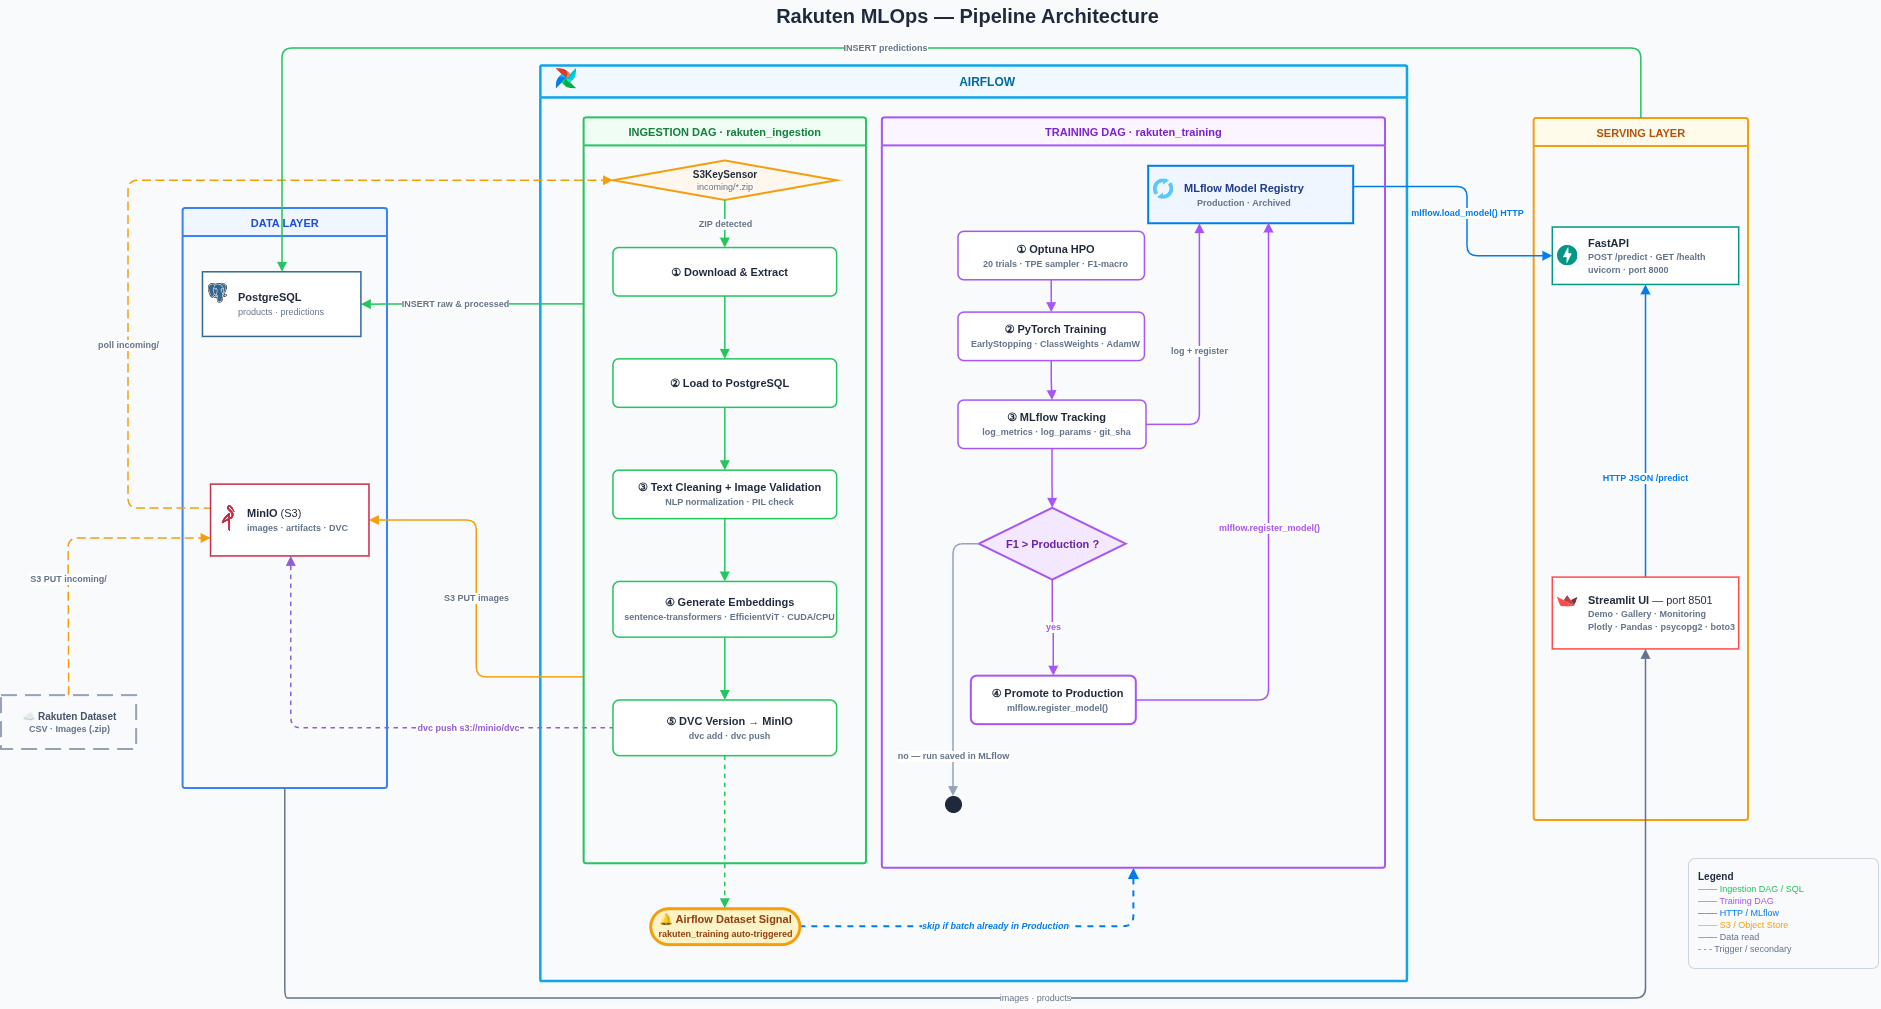
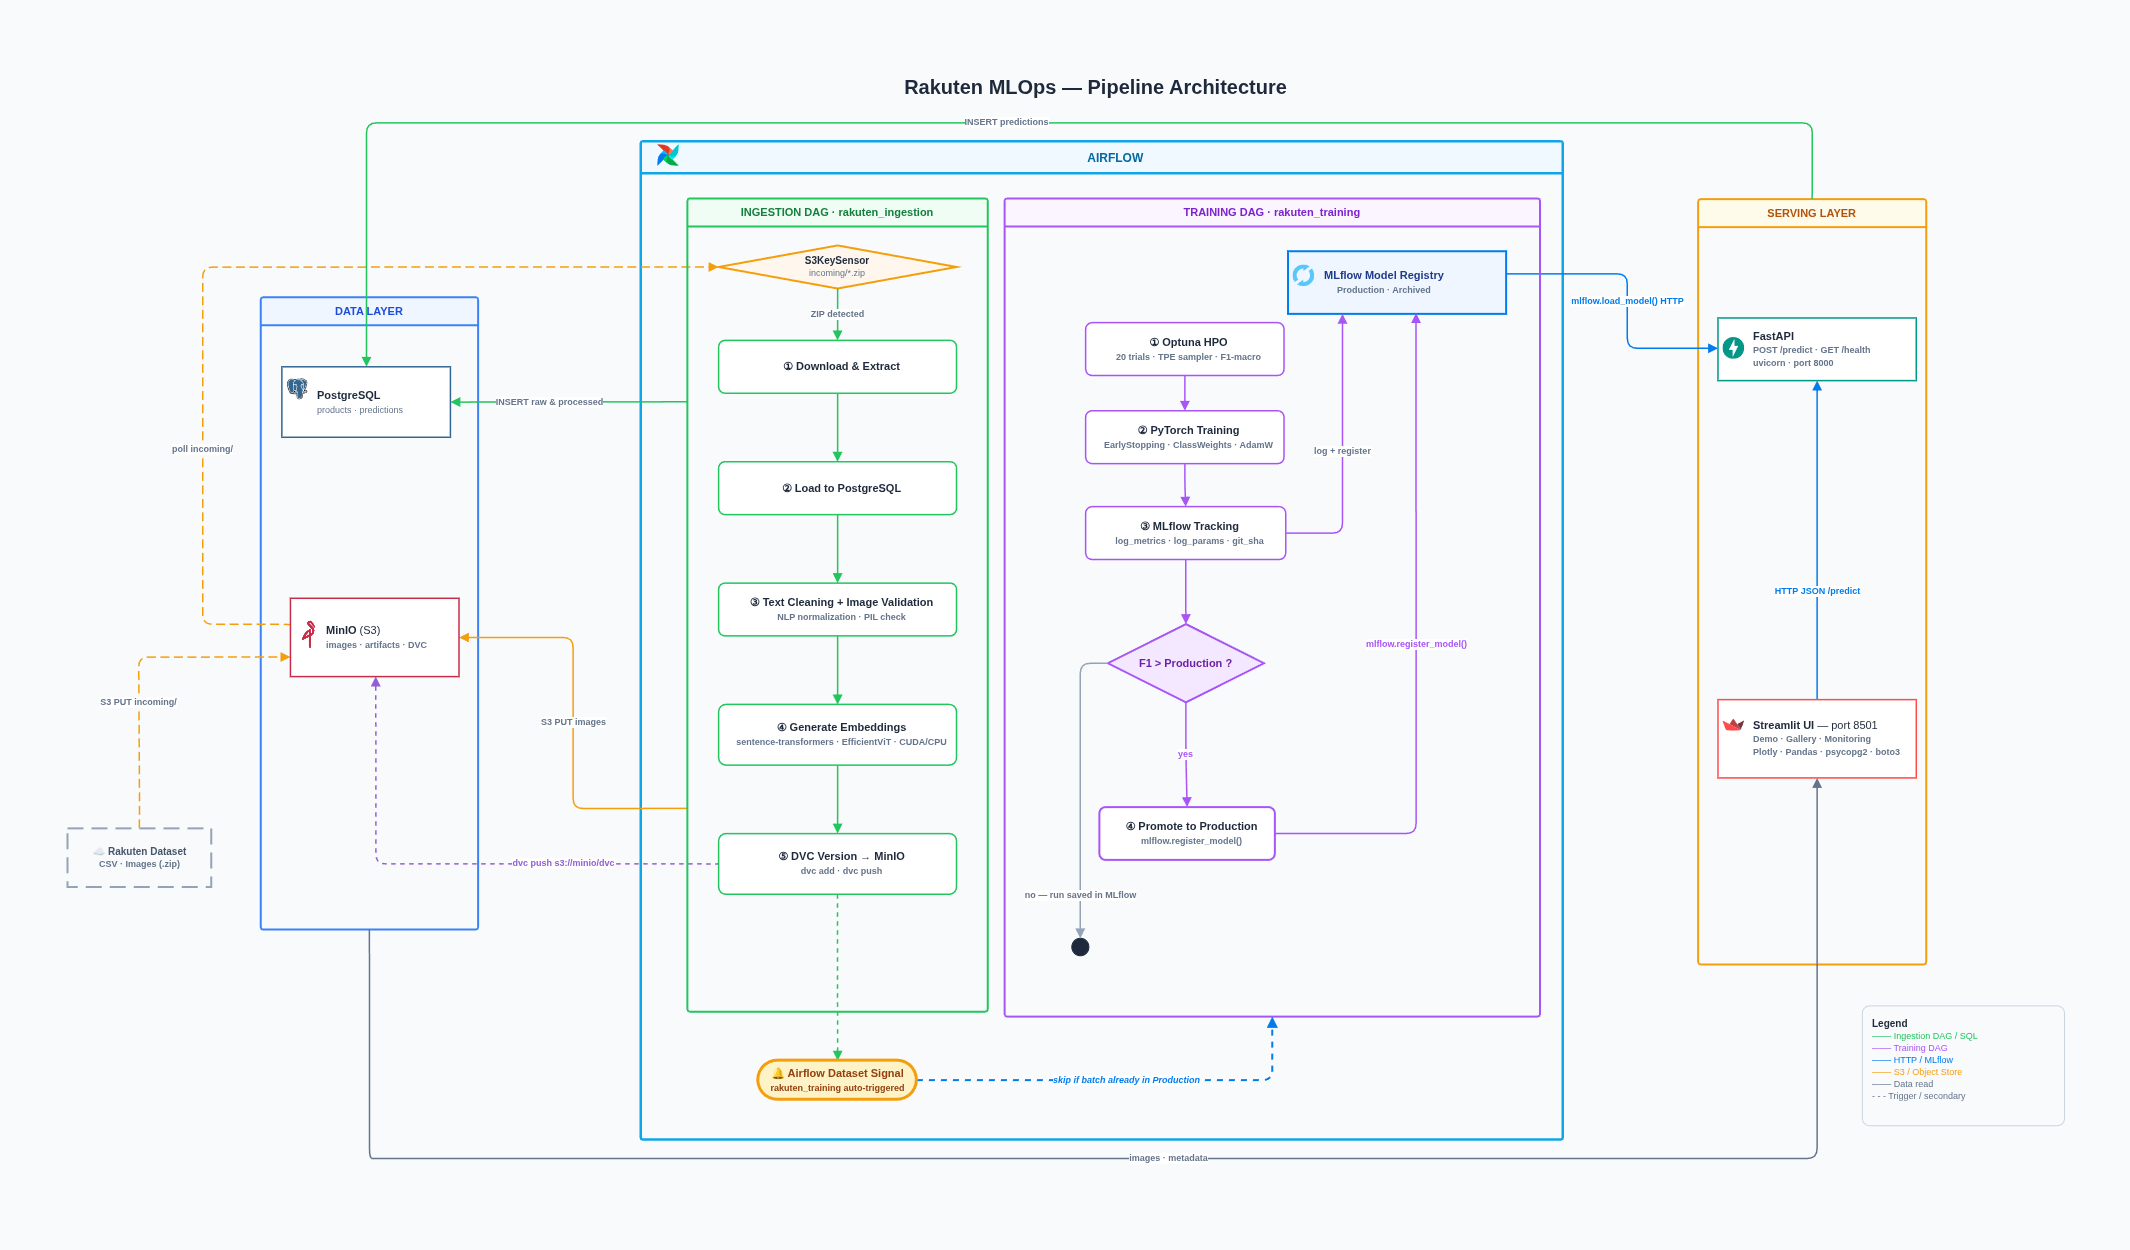
docs: README overhaul — screenshots, badge refactor, content cleanup

diff --git a/README.md b/README.md
@@ -1,16 +1,16 @@
 # MultiModalAI MLOps
 
+![Python](https://img.shields.io/badge/python-3.12-blue?logo=python&logoColor=white) ![PyTorch](https://img.shields.io/badge/PyTorch-2.x-ee4c2c?logo=pytorch&logoColor=white) ![Airflow](https://img.shields.io/badge/Airflow-2.x-017cee?logo=apacheairflow&logoColor=white) ![MLflow](https://img.shields.io/badge/MLflow-3.6-0194e2?logo=mlflow&logoColor=white) ![DVC](https://img.shields.io/badge/DVC-945dd6?logo=dvc&logoColor=white) ![Docker](https://img.shields.io/badge/Docker-2496ed?logo=docker&logoColor=white) ![HuggingFace](https://img.shields.io/badge/HuggingFace-FF9D0B?logo=huggingface&logoColor=white) ![PostgreSQL](https://img.shields.io/badge/PostgreSQL-336791?logo=postgresql&logoColor=white) ![Optuna](https://img.shields.io/badge/Optuna-171157?logo=optuna&logoColor=white) ![License](https://img.shields.io/badge/license-MIT-green)
+
 End-to-end MLOps pipeline for multimodal e-commerce product classification (text + image) — ingestion, training, inference and monitoring.
 
-> **27 classes · 84 916 products · F1-macro 0.8325 · imbalance ratio 13.4×**
+> **27 classes · 50 950 products · F1-macro 0.8188 · imbalance ratio 13.4×**
 
 ---
 
 ## Overview
 
 This project implements a production-grade MLOps pipeline for classifying Rakuten e-commerce products using both text (designation + description) and image data. The full pipeline — from raw data ingestion to model serving — runs on a single machine via Docker Compose. Hyperparameter optimization is handled by Optuna (20 trials, TPE sampler) with automatic model promotion based on F1-macro.
-
-See the [Pipeline Architecture](#pipeline-architecture) diagram below for a full overview.
 
 ---
 
@@ -20,7 +20,6 @@ See the [Pipeline Architecture](#pipeline-architecture) diagram below for a full
 
 ![Pipeline Architecture](docs/architecture_pipeline.png)
 
-> Source: [`docs/rakuten_mlops_v5.drawio`](docs/rakuten_mlops_v5.drawio)
 
 ### Model
 
@@ -65,7 +64,6 @@ All services communicate over a shared Docker bridge network (`rakuten_net`).
 
 ![Docker architecture](docs/docker_architecture.png)
 
-> Source: [`docs/docker_architecture.drawio`](docs/docker_architecture.drawio)
 
 ---
 
@@ -73,52 +71,15 @@ All services communicate over a shared Docker bridge network (`rakuten_net`).
 
 ### Ingestion DAG (`rakuten_ingestion`)
 
-```mermaid
-flowchart LR
-    WZ([wait_zip\nS3KeySensor · 24h]) --> A([detect_zip\nMinIO incoming/])
-    A --> B([download_extract\nCSV + images])
-    B --> C([archive_zip\n+ cleanup_task])
-    C --> D{batch already\nprocessed?}
-    D -->|yes| SK([skip])
-    D -->|no| E([load_postgres\nproducts_raw])
-    E --> F([transform\ntext clean · img validation])
-    E --> G([upload_images\nMinIO · idempotent])
-    F --> H([quality_checks\nvolume · match rate · coverage])
-    G --> H
-    H --> I([save_processed\nCSV + PostgreSQL])
-    I --> J{new products\nto embed?}
-    J -->|no| SK2([skip embedding])
-    J -->|yes| K([generate_embeddings\nsentence-transformers · EfficientViT])
-    K --> L([append_embeddings\nlatest per product_id])
-    L --> M([log_to_mlflow\nmetrics · artifacts])
-    M --> N([version_dvc\npush to MinIO · emit_signal 🔔])
+![Ingestion DAG](docs/dag_ingestion.png)
 
-    style WZ fill:#1a3a2a,stroke:#34d399,color:#e2e8f0
-    style SK fill:#374151,stroke:#6b7280,color:#9ca3af
-    style SK2 fill:#374151,stroke:#6b7280,color:#9ca3af
-    style N fill:#0f2744,stroke:#38bdf8,color:#38bdf8
-```
 
 ### Training DAG (`rakuten_training`)
 
 Triggered automatically via [Airflow Datasets](https://airflow.apache.org/docs/apache-airflow/stable/authoring-and-scheduling/datasets.html) when ingestion completes.
 
-```mermaid
-flowchart LR
-    S([EMBEDDINGS_DATASET\nsignal 🔔]) --> H([hpo_optuna\n20 trials · TPE · F1-macro])
-    H --> G{batch already\nin Production?}
-    G -->|yes| SK([skip_training])
-    G -->|no| T([final_training\nEarlyStopping · class weights])
-    T --> M([mlflow_tracking\nmetrics · params · git_sha])
-    M --> P{F1-macro >\nProduction?}
-    P -->|yes| PR([promote\nto Production])
-    P -->|no| AR([archive])
+![Training DAG](docs/dag_training.png)
 
-    style S fill:#0f2744,stroke:#38bdf8,color:#38bdf8
-    style SK fill:#374151,stroke:#6b7280,color:#9ca3af
-    style AR fill:#374151,stroke:#6b7280,color:#9ca3af
-    style PR fill:#1a3a2a,stroke:#34d399,color:#e2e8f0
-```
 
 ### Notable design decisions
 
@@ -270,33 +231,28 @@ curl -X POST http://localhost:8000/predict \
 | **Pipeline & Architecture** | Pipeline diagram, tech stack, MLflow dashboard (F1 history, hyperparams) |
 | **Monitoring** | Production predictions — class distribution, confidence levels, volume over time |
 
----
+### Prediction Demo
+![Prediction Demo](docs/screenshots/demo.png)
 
-## Tech Stack
+### Product Gallery
+![Product Gallery](docs/screenshots/gallery.png)
 
-| Category | Technology |
-|---|---|
-| Orchestration | Apache Airflow |
-| Experiment tracking | MLflow |
-| Data versioning | DVC |
-| Object storage | MinIO (S3-compatible) |
-| Database | PostgreSQL |
-| Deep learning | PyTorch, sentence-transformers, timm (EfficientViT) |
-| HPO | Optuna |
-| Inference API | FastAPI + Uvicorn |
-| Demo UI | Streamlit |
-| Containerization | Docker Compose |
-| Package manager | uv |
-| Language | Python 3.12 |
+### Pipeline & Model
+![Pipeline Architecture](docs/screenshots/pipeline.png)
+![Pipeline Model & Hyperparams](docs/screenshots/pipeline_model.png)
+
+### Monitoring
+![Monitoring](docs/screenshots/monitoring.png)
 
 ---
 
-## Planned
+
+## Roadmap
 
 - Evidently drift monitoring DAG (`monitoring_dag.py`) — detect feature/label drift from production predictions
 - Docker image published on GHCR (`ghcr.io/YBengala/multimodalai-mlops/inference:v1.0.0`) via GitHub Actions
 - CI/CD pipeline — integration tests, Docker image scanning (Trivy via GitHub Actions), automated rollback
-- Release `v1.0.0` after the above are completed
+
 
 ---
 
@@ -309,3 +265,9 @@ This project is designed as a portfolio/demo — production hardening would requ
 - **Observability** — centralized logging (Loki/ELK), infrastructure metrics (Prometheus + Grafana), alerting
 - **Performance** — inference batching, embedding cache, encoder warm-up
 - **Data** — schema validation (Great Expectations), PII/GDPR handling
+
+---
+
+## Dataset
+
+[Rakuten France Multimodal Product Classification](https://www.kaggle.com/datasets/evgeniyasergeeva/rakuten-france-multimodal-product-classification) — Kaggle
